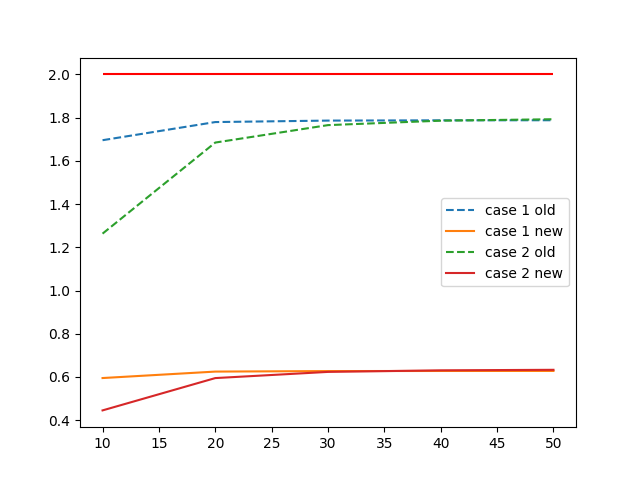
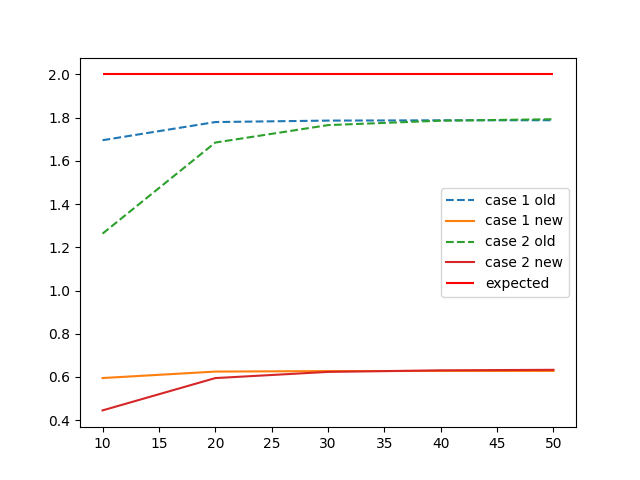
cosmetics

Changed region(s): [[0.6875, 0.4062, 0.875, 0.625]]

diff --git a/examples/validate_infinite_diffuse_surface.py b/examples/validate_infinite_diffuse_surface.py
@@ -154,7 +154,6 @@ for w in dimensions:
         w, w, patch_size, source_pos,
         receiver_pos, speed_of_sound, sampling_rate)
     ratio_2_new.append(r)
-    # case 2: source and receiver are on the same normal
 
 
 # %%
@@ -164,7 +163,7 @@ ax.plot(dimensions, ratio_1_old, '--', label='case 1 old')
 ax.plot(dimensions, ratio_1_new, label='case 1 new')
 ax.plot(dimensions, ratio_2_old, '--', label='case 2 old')
 ax.plot(dimensions, ratio_2_new, label='case 2 new')
-ax.hlines(2, dimensions[0], dimensions[-1], 'r')
+ax.hlines(2, dimensions[0], dimensions[-1], 'r', label='expected')
 plt.legend()
 plt.show()
 fig.savefig('validate_infinite_diffuse_surface.png')
